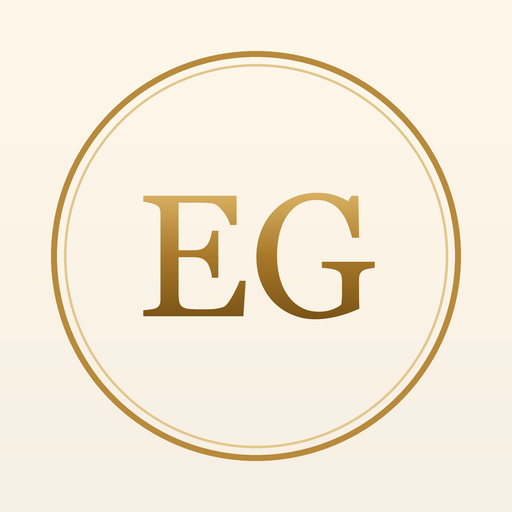
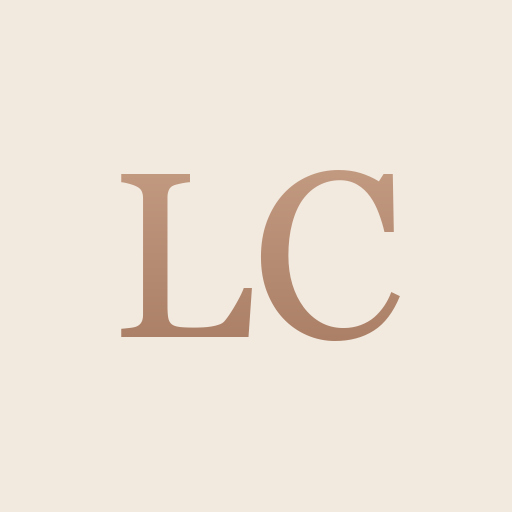
Agenda Lyslie Cruz: visual rose, avisos da secretaria, painel da secretaria em Ajustes, chamadas de retorno na aba Retornos

Changed region(s): [[0.0938, 0.0938, 0.9062, 0.9062], [0.2188, 0.3125, 0.7812, 0.6875]]

diff --git a/index.html b/index.html
@@ -3,11 +3,11 @@
 <head>
 <meta charset="utf-8">
 <meta name="viewport" content="width=device-width,initial-scale=1,viewport-fit=cover">
-<meta name="theme-color" content="#F6EFE3">
+<meta name="theme-color" content="#FBF7F2">
 <meta name="apple-mobile-web-app-capable" content="yes">
 <meta name="mobile-web-app-capable" content="yes">
 <meta name="apple-mobile-web-app-status-bar-style" content="default">
-<meta name="apple-mobile-web-app-title" content="Essence Glam">
+<meta name="apple-mobile-web-app-title" content="Lyslie Cruz">
 <meta name="robots" content="noindex">
 <link rel="icon" href="icon-192.png">
 <link rel="apple-touch-icon" href="apple-touch-icon.png">
@@ -15,42 +15,42 @@
 <script src="https://www.gstatic.com/firebasejs/10.12.2/firebase-app-compat.js"></script>
 <script src="https://www.gstatic.com/firebasejs/10.12.2/firebase-auth-compat.js"></script>
 <script src="https://www.gstatic.com/firebasejs/10.12.2/firebase-firestore-compat.js"></script>
-<title>Essence Glam · Agenda</title>
+<title>Lyslie Cruz · Agenda</title>
 <meta name="color-scheme" content="light only">
 <link rel="preconnect" href="https://fonts.googleapis.com">
-<link rel="stylesheet" href="https://fonts.googleapis.com/css2?family=Cinzel:wght@500;600;700&family=Figtree:wght@400;500;600;700&display=swap">
+<link rel="stylesheet" href="https://fonts.googleapis.com/css2?family=Cormorant+Garamond:wght@500;600;700&family=Figtree:wght@400;500;600;700&display=swap">
 <style>
 /* Layout: app de uma coluna, pensado pro celular; abas fixas embaixo, conteúdo rola acima.
-   Identidade do Stúdio Essence Glam: marfim, dourado em degradê, letras clássicas (Cinzel) como no logo.
+   Identidade Lyslie Cruz (24/11/2026): nude, rosé/bronze em degradê e letras clássicas (Cormorant), como o logo LC.
    Sempre claro, mesmo com o celular no modo noturno (pedido da Lyslie). */
 :root{
   color-scheme:light only;
-  --bg:#F6EFE3; --surface:#FFFCF5; --ink:#3A2915; --muted:#86704F; --line:#E7D9BF;
-  --accent:#8C6220; --accent-ink:#FFFFFF; --accent-soft:#F3E5C8;
-  --gold:linear-gradient(135deg,#C99A48 0%,#A57627 50%,#7E5617 100%);
-  --gold-text:linear-gradient(180deg,#D9B162 0%,#A9792A 55%,#7A5316 100%);
+  --bg:#FBF7F2; --surface:#FFFFFF; --ink:#33261F; --muted:#8E7C6F; --line:#E8DCCE;
+  --accent:#94664D; --accent-ink:#FFFFFF; --accent-soft:#F2E6DC;
+  --gold:linear-gradient(135deg,#D9B49A 0%,#B8876B 50%,#94664D 100%);
+  --gold-text:linear-gradient(180deg,#D9B49A 0%,#B8876B 55%,#8A5C44 100%);
   --ok:#3F7A4E; --ok-soft:#E4F0E2; --warn:#A35E12; --warn-soft:#FBEBD3; --bad:#A83A2E; --bad-soft:#F6E1DC;
   --info:#5A6E8C; --info-soft:#E8ECF2;
-  --f-display:"Cinzel", "Trajan Pro", Georgia, serif;
+  --f-display:"Cormorant Garamond", Georgia, serif;
   --f-body:"Figtree", system-ui, -apple-system, "Segoe UI", sans-serif;
   --f-num:"Figtree", system-ui, -apple-system, sans-serif;
   --r:14px;
 }
 html,body{height:100%}
-body{background:var(--bg) radial-gradient(120% 60% at 50% 0%,#FFF8EA 0%,transparent 70%) no-repeat;color:var(--ink);font-family:var(--f-body);font-size:15px;line-height:1.45}
+body{background:var(--bg) radial-gradient(120% 60% at 50% 0%,#FFFFFF 0%,transparent 70%) no-repeat;color:var(--ink);font-family:var(--f-body);font-size:15px;line-height:1.45}
 *{box-sizing:border-box}
 .wrap{max-width:760px;margin:0 auto;padding-inline:16px;padding-block:12px 96px}
 header.top{display:flex;align-items:center;justify-content:space-between;gap:12px;padding-block:6px 14px;border-bottom:1px solid var(--line);margin-bottom:14px;position:relative}
-header.top::after{content:"";position:absolute;left:0;right:0;bottom:-1px;height:1px;background:linear-gradient(90deg,transparent,#C99A48,transparent)}
+header.top::after{content:"";position:absolute;left:0;right:0;bottom:-1px;height:1px;background:linear-gradient(90deg,transparent,#C9A089,transparent)}
 .logo{display:flex;align-items:center;gap:12px;min-width:0}
-.mono{width:46px;height:46px;border-radius:50%;border:1.5px solid #B88A3C;box-shadow:inset 0 0 0 3px var(--surface),inset 0 0 0 4px #E2C68C;display:flex;align-items:center;justify-content:center;flex:none;background:var(--surface)}
+.mono{width:46px;height:46px;border-radius:50%;border:1.5px solid #B8876B;box-shadow:inset 0 0 0 3px var(--surface),inset 0 0 0 4px #E6CFBF;display:flex;align-items:center;justify-content:center;flex:none;background:var(--surface)}
 .mono b{font:600 19px var(--f-display);letter-spacing:-.04em;background:var(--gold-text);-webkit-background-clip:text;background-clip:text;color:transparent}
-.brand{font-family:var(--f-display);font-weight:600;font-size:22px;line-height:1.05;letter-spacing:.06em;text-wrap:balance;min-width:0}
+.brand{font-family:var(--f-display);font-weight:600;font-size:25px;line-height:1.05;letter-spacing:.06em;text-wrap:balance;min-width:0}
 .brand .pre{display:block;font:500 10.5px var(--f-display);letter-spacing:.42em;color:var(--muted);margin-bottom:3px}
 .brand .nm{background:var(--gold-text);-webkit-background-clip:text;background-clip:text;color:transparent}
 .brand small{display:block;font-family:var(--f-body);font-size:11px;font-weight:500;letter-spacing:.14em;text-transform:uppercase;color:var(--muted);margin-top:4px}
 .today{font-size:12.5px;color:var(--muted);text-align:right}
-nav.tabs{position:fixed;left:0;right:0;bottom:0;background:var(--surface);border-top:1px solid #E2C68C;display:flex;justify-content:center;padding-bottom:env(safe-area-inset-bottom,0px);z-index:20}
+nav.tabs{position:fixed;left:0;right:0;bottom:0;background:var(--surface);border-top:1px solid #E6CFBF;display:flex;justify-content:center;padding-bottom:env(safe-area-inset-bottom,0px);z-index:20}
 nav.tabs .in{display:grid;grid-template-columns:repeat(5,1fr);width:100%;max-width:760px}
 nav.tabs button{background:none;border:0;padding:10px 4px 9px;font:600 12px var(--f-body);color:var(--muted);display:flex;flex-direction:column;align-items:center;gap:3px;cursor:pointer;position:relative}
 nav.tabs button svg{width:22px;height:22px}
@@ -132,13 +132,21 @@ label.f{display:flex;flex-direction:column;gap:5px;font-size:13px;font-weight:60
 .modal .foot{display:flex;gap:8px;justify-content:flex-end;margin-top:16px;flex-wrap:wrap}
 .toast{position:fixed;left:50%;transform:translateX(-50%);bottom:calc(84px + env(safe-area-inset-bottom,0px));background:var(--ink);color:var(--bg);padding:10px 16px;border-radius:10px;font-weight:600;z-index:60;max-width:90%;text-align:center}
 .note{font-size:13px;color:var(--muted)}
+.avbox{background:var(--accent-soft);border:1px solid #E6CFBF;border-radius:var(--r);padding:12px 14px;margin-bottom:12px;display:grid;gap:8px}
+.avit{display:flex;gap:8px;align-items:center;background:var(--surface);border-radius:10px;padding:9px 10px;font-size:13.5px}
+.avit small{display:block;color:var(--muted);font-size:12px}
+.chk{flex-wrap:nowrap;align-items:flex-start}
+.chk input{margin-top:3px;flex:none}
+.secst{display:flex;align-items:center;gap:8px;font-weight:600}
+.secst i{width:10px;height:10px;border-radius:50%;display:inline-block}
+.envit{border-top:1px solid var(--line);padding:8px 0;font-size:13px}
 .banner{background:var(--warn-soft);color:var(--warn);border-radius:10px;padding:10px 12px;font-size:13.5px;margin-bottom:12px}
 .ph{font:500 12px var(--f-num);color:var(--muted)}
 .svc{display:grid;grid-template-columns:1fr auto;gap:4px 10px;padding:10px 0;border-bottom:1px solid var(--line)}
 .svc:last-child{border:0}
 .wa-num{font:500 12px var(--f-num);color:var(--muted);user-select:all}
 .reserva{position:fixed;left:0;right:0;bottom:calc(64px + env(safe-area-inset-bottom,0px));z-index:30;display:flex;justify-content:center;padding-inline:12px;pointer-events:none}
-.reserva .box{pointer-events:auto;width:100%;max-width:736px;max-height:58vh;overflow:auto;background:var(--surface);border:2px solid #B88A3C;border-radius:16px;box-shadow:0 -8px 30px rgba(0,0,0,.25);padding:14px}
+.reserva .box{pointer-events:auto;width:100%;max-width:736px;max-height:58vh;overflow:auto;background:var(--surface);border:2px solid #B8876B;border-radius:16px;box-shadow:0 -8px 30px rgba(0,0,0,.25);padding:14px}
 .reserva h3{font-family:var(--f-display);font-weight:600;font-size:17px;letter-spacing:.03em;color:var(--accent);margin:0 0 2px}
 .reserva .it{border-top:1px solid var(--line);padding-top:10px;margin-top:10px;display:grid;gap:6px}
 .reserva .nums{display:grid;grid-template-columns:repeat(3,1fr);gap:6px}
@@ -151,14 +159,14 @@ body.tem-reserva .wrap{padding-bottom:360px}
 /* fora do Claude não vem essa regra pronta: elemento com hidden some de verdade (login, toast, formulários) */
 [hidden]{display:none!important}
 /* tela de login (fora do Claude, cada uma entra com o próprio e-mail e senha) */
-.login{position:fixed;inset:0;z-index:80;background:var(--bg) radial-gradient(120% 70% at 50% 0%,#FFF8EA 0%,transparent 70%) no-repeat;display:flex;align-items:center;justify-content:center;padding:24px 16px;overflow:auto}
+.login{position:fixed;inset:0;z-index:80;background:var(--bg) radial-gradient(120% 70% at 50% 0%,#FFFFFF 0%,transparent 70%) no-repeat;display:flex;align-items:center;justify-content:center;padding:24px 16px;overflow:auto}
 .lgbox{width:100%;max-width:360px;display:grid;gap:12px;text-align:center}
 .lgmono{width:72px;height:72px;margin:0 auto 4px}
 .lgmono b{font-size:30px}
 .lgpre{font:500 12px var(--f-display);letter-spacing:.5em;color:var(--muted)}
 .lgnome{font:600 30px var(--f-display);letter-spacing:.06em;margin:0;background:var(--gold-text);-webkit-background-clip:text;background-clip:text;color:transparent}
 .lgcid{font:500 11px var(--f-display);letter-spacing:.4em;color:var(--muted);margin-bottom:10px}
-.lgcid::before,.lgcid::after{content:"";display:inline-block;width:28px;height:1px;background:#C99A48;vertical-align:middle;margin:0 10px}
+.lgcid::before,.lgcid::after{content:"";display:inline-block;width:28px;height:1px;background:#C9A089;vertical-align:middle;margin:0 10px}
 .lgbox label.f{text-align:left}
 body.sem-login nav.tabs,body.sem-login #reservaRoot{display:none}
 
@@ -174,7 +182,7 @@ body.sem-login nav.tabs,body.sem-login #reservaRoot{display:none}
 .cal .cell.fora .ev{opacity:.45}
 .cal .cell.hoje .n{background:var(--gold);color:#fff}
 .cal .cell.sel{background:var(--accent-soft)}
-.cal .cell.sel:not(.hoje) .n{border:1.5px solid #B88A3C}
+.cal .cell.sel:not(.hoje) .n{border:1.5px solid #B8876B}
 .cal .ev{display:block;font:600 9.5px/1.25 var(--f-body);white-space:nowrap;overflow:hidden;text-overflow:clip;border-radius:3px;padding:1px 2px 1px 3px;border-left:2px solid var(--c,var(--accent));background:color-mix(in srgb,var(--c,#B0843A) 15%,transparent);color:var(--ink)}
 .cal .ev.ok{opacity:.55}
 .cal .ev.conf{font-weight:700}
@@ -202,7 +210,7 @@ body.sem-login nav.tabs,body.sem-login #reservaRoot{display:none}
 
 <div class="wrap">
   <header class="top">
-    <div class="logo"><span class="mono" aria-hidden="true"><b id="mono">EG</b></span><div class="brand" id="brand">Estúdio<small>Sobrancelha · Maquiagem · Cílios</small></div></div>
+    <div class="logo"><span class="mono" aria-hidden="true"><b id="mono">LC</b></span><div class="brand" id="brand">Estúdio<small>Sobrancelha · Maquiagem · Cílios</small></div></div>
     <div class="today" id="todayLbl"></div>
   </header>
   <div id="banner"></div>
@@ -220,9 +228,9 @@ body.sem-login nav.tabs,body.sem-login #reservaRoot{display:none}
 <div id="modalRoot"></div>
 <div id="login" class="login" hidden>
   <form id="lgForm" class="lgbox" autocomplete="on">
-    <span class="mono lgmono" aria-hidden="true"><b>EG</b></span>
-    <div class="lgpre">STÚDIO</div>
-    <h1 class="lgnome">ESSENCE GLAM</h1>
+    <span class="mono lgmono" aria-hidden="true"><b>LC</b></span>
+    <div class="lgpre">AGENDA</div>
+    <h1 class="lgnome">LYSLIE CRUZ</h1>
     <div class="lgcid">ARCOS-MG</div>
     <label class="f">E-mail<input id="lgEmail" type="email" autocomplete="username" inputmode="email" required></label>
     <label class="f">Senha<input id="lgSenha" type="password" autocomplete="current-password" required></label>
@@ -277,7 +285,7 @@ const S = {
   prof: "todas",
   mes: today().slice(0,7),
   busca: "",
-  cfg: null, clientes: [], ags: [], caixa: [], acomp: [], reservas: [],
+  cfg: null, clientes: [], ags: [], caixa: [], acomp: [], reservas: [], avisos: [], sec: {}, secRet: [], envios: null,
   pronto: {cfg:false, clientes:false, ags:false, caixa:false, acomp:false},
   db: null, canWrite: true
 };
@@ -500,6 +508,7 @@ function viewAgenda(v){
   const doDia = S.ags.filter(a => a.data === S.dia && doProf(a)).sort((a,b)=> a.hora.localeCompare(b.hora));
   const [y,mm] = S.dia.slice(0,7).split("-").map(Number);
   let html = '<div class="datebar"><button class="btn-sm" data-cm="-1" aria-label="Mês anterior">‹</button><div class="label">'+MES[mm-1]+' '+y+'</div><button class="btn-sm" data-cm="1" aria-label="Próximo mês">›</button></div>';
+  html += painelAvisos();
   html += painelConfirmar();
   html += '<div class="busca-ag"><input id="buscaAg" type="search" autocomplete="off" placeholder="🔍 Buscar cliente por nome ou número"><div id="buscaAgRes" class="achou" style="margin-top:6px"></div></div>';
   html += profChips();
@@ -519,6 +528,7 @@ function viewAgenda(v){
     if (total) html += '<p class="note" style="margin-top:10px">Recebido neste dia: <span class="money">'+brl(total)+'</span></p>';
   }
   v.innerHTML = html;
+  bindAvisos(v);
   v.querySelectorAll("[data-cm]").forEach(b => b.onclick = () => { const d = new Date(y, mm-1+Number(b.dataset.cm), 1); const alvo = d.getFullYear()+"-"+pad(d.getMonth()+1); S.dia = today().slice(0,7) === alvo ? today() : alvo+"-01"; render(); });
   v.querySelectorAll("[data-dia]").forEach(b => b.onclick = () => { const mudouMes = b.dataset.dia.slice(0,7) !== S.dia.slice(0,7); S.dia = b.dataset.dia; render(); if (!mudouMes) { const h = $(".dayhead"); if (h && h.getBoundingClientRect().top > innerHeight*0.6) h.scrollIntoView({behavior:"smooth", block:"start"}); } });
   bindProfChips(v);
@@ -817,6 +827,21 @@ function formConcluir(a){
     };
   });
 }
+/* ---------- avisos da secretária ---------- */
+function textoAviso(a){ const n = String(a.nome||"Cliente").split(" ")[0]; const sv = nomeMsg(a.servico||""); const q = (a.data ? fmtCurto(a.data) : "")+(a.hora ? " às "+a.hora : "");
+  if (a.tipo === "agendou") return "🔔 "+n+" agendou "+sv+" pelo site, "+q;
+  if (a.tipo === "cancelou") return "↩ "+n+" desmarcou "+sv+" ("+q+") pelo WhatsApp. O horário foi liberado";
+  if (a.tipo === "conflito") return "⚠ "+n+" tentou agendar "+sv+" "+q+", mas o horário já estava ocupado";
+  return "🔔 "+n; }
+function painelAvisos(){ const ls = S.avisos || []; if (!ls.length) return "";
+  return '<div class="avbox"><div class="row"><b class="grow">Avisos da secretária</b>'+(ls.length>1?'<button class="btn-sm btn-ghost" data-avtodos>Limpar todos</button>':'')+'</div>'+
+    ls.slice(0,8).map(a => '<div class="avit"><div class="grow">'+esc(textoAviso(a))+(a.tipo==="conflito"?'<small>A secretária mandou o link pra ela escolher outro horário.</small>':'')+'</div>'+
+      (a.agId && a.tipo !== "cancelou" ? '<button class="btn-sm" data-avver="'+esc(a.id)+'">Ver</button>' : '')+'<button class="btn-sm btn-ghost" data-avok="'+esc(a.id)+'" aria-label="Apagar aviso">Ok</button></div>').join("")+'</div>'; }
+function bindAvisos(v){
+  v.querySelectorAll("[data-avok]").forEach(b => b.onclick = () => run(()=>col("avisos").doc(b.dataset.avok).delete()));
+  v.querySelectorAll("[data-avver]").forEach(b => b.onclick = () => { const a = S.avisos.find(x => x.id === b.dataset.avver); if (!a) return; S.dia = a.data; S.mes = a.data.slice(0,7); render(); run(()=>col("avisos").doc(a.id).delete()); });
+  const t = v.querySelector("[data-avtodos]"); if (t) t.onclick = () => run(async () => { const b = S.db.batch(); S.avisos.forEach(a => b.delete(col("avisos").doc(a.id))); await b.commit(); }, "Avisos limpos");
+}
 /* ---------- depois de concluir: agendar o próximo agora ou a secretária chama a cliente em 15 dias (pedido da Lyslie, 24/11/2026) ---------- */
 const DIAS_CHAMADA = 15;
 function proximoPasso(a){
@@ -937,6 +962,8 @@ function viewRetornos(v){
   const itemProx = a => { const c = cliById(a.clienteId) || {}; const p = profById(a.profId)||{}; const ctx = ctxProx(a);
     const tpl = a.enviadas ? cfg().msgs.proxima2 : cfg().msgs.proxima;
     return '<div class="due'+(a.enviadas?" late":"")+'"><div class="row"><b class="grow">'+esc(c.nome||"Cliente removida")+'</b><span class="tag">próxima entre '+esc(ctx.de)+' e '+esc(ctx.ate)+'</span></div><div class="tag">'+(a.enviadas ? 'Chamada '+(a.enviadas>1?a.enviadas+" vezes":"em "+fmtCurto(a.enviadoEm))+' e ainda sem horário marcado' : 'Ainda não foi chamada pra marcar a próxima')+' · '+esc(a.servicoNome||"")+(p.nome?" · "+esc(p.nome):"")+'</div><div class="acts row">'+waBtn(c.telefone, fill(tpl, ctx), a.enviadas ? "Chamar de novo" : "Chamar pra próxima", "btn-sm", 'data-px="'+esc(a.id)+'" data-pxn="'+(a.enviadas||0)+'"')+'<button class="btn-sm" data-marcar="'+esc(a.clienteId)+'">Marcar horário</button><button class="btn-sm btn-ghost" data-ok="'+esc(a.id)+'">Não vai voltar</button></div></div>'; };
+  const chs = (S.secRet||[]).slice().sort((a,b)=>String(a.enviarEm).localeCompare(String(b.enviarEm)));
+  if (chs.length) html += '<h2 class="sec">A secretária vai chamar</h2><div class="list">'+chs.map(r => { const c = cliById(r.clienteId) || {}; return '<div class="due"><div class="row"><b class="grow">'+esc(c.nome||"Cliente")+'</b><span class="tag">dia '+esc(fmtCurto(r.enviarEm))+'</span></div><div class="tag">Retorno de '+esc(nomeMsg(r.servicoNome||""))+' · atendida em '+esc(fmtCurto(r.dataAtendimento))+'</div><div class="row"><button class="btn-sm btn-ghost" data-rcan="'+esc(r.id)+'">Não chamar</button></div></div>'; }).join("")+'</div>';
   html += '<h2 class="sec">Para hoje</h2>' + (vencidos.length ? '<div class="list">'+vencidos.map(item).join("")+'</div>' : '<div class="empty"><b>Tudo em dia</b>Quando um atendimento é concluído, o lembrete dos cuidados e da manutenção aparece aqui.</div>');
   if (proximos.length) html += '<h2 class="sec">Próximos 14 dias</h2><div class="list">'+proximos.map(item).join("")+'</div>';
   if (sumidas.length) html += '<h2 class="sec">Sumidas há mais de '+nSum+' dias</h2><div class="list">'+sumidas.map(x => '<div class="due"><div class="row"><b class="grow">'+esc(x.c.nome)+'</b><span class="tag">último: '+fmtCurto(x.ult.data)+'</span></div><div class="tag">'+esc(x.ult.servicoNome||"")+'</div><div class="row">'+waBtn(x.c.telefone, "Oi, "+x.c.nome.split(" ")[0]+"! Saudade de você por aqui. Quer marcar um horário?", "Chamar")+'<button class="btn-sm" data-marcar="'+esc(x.c.id)+'">Marcar horário</button></div></div>').join("")+'</div>';
@@ -944,6 +971,7 @@ function viewRetornos(v){
   bindProfChips(v);
   v.querySelectorAll("[data-ok]").forEach(b => b.onclick = () => run(()=>col("acompanhamentos").doc(b.dataset.ok).update({feito:true, feitoEm: today()}), "Marcado como feito"));
   v.querySelectorAll("[data-px]").forEach(b => b.addEventListener("click", () => marcarEnvioProx(b.dataset.px, Number(b.dataset.pxn))));
+  v.querySelectorAll("[data-rcan]").forEach(b => b.onclick = () => run(()=>col("secretaria_retornos").doc(b.dataset.rcan).update({status:"cancelado", canceladoEm: new Date().toISOString()}), "Ok, a secretária não vai chamar."));
   v.querySelectorAll("[data-marcar]").forEach(b => b.onclick = () => { S.tab="agenda"; render(); formAg(null, b.dataset.marcar); });
 }
 
@@ -995,12 +1023,51 @@ function formLanc(tipo, l){
 
 /* ---------- AJUSTES ---------- */
 const MSGS = [["confirmacao","Confirmar horário (24h a 12h antes)"],["lembrete","Lembrete pra quem já confirmou"],["cuidados","Cuidados pós-atendimento"],["proxima","Chamar pra próxima (logo ao concluir)"],["proxima2","Chamar pra próxima de novo (quem não respondeu)"],["retorno","Chamar pra manutenção"]];
+const SEC_TIPOS = [["confirmacao","Confirmação quando agenda"],["lembrete","Lembrete na véspera (com sim/não e resposta automática)"],["retorno","Chamada de retorno (botão ao concluir)"],["conflito","Aviso quando o horário do site já estava ocupado"],["cuidados","Cuidados no dia seguinte ao atendimento"]];
+const SEC_TEXTOS = [["confirmacao","Confirmação do agendamento"],["lembrete","Lembrete da véspera"],["sim","Resposta quando ela diz \"sim\""],["nao","Resposta quando ela diz \"não\""],["retorno","Chamada de retorno"],["cuidados","Cuidados no dia seguinte"],["conflito","Horário já ocupado"]];
+const SEC_PADRAO = {
+  confirmacao:'Oii {nome}, seu horário de {servico} está marcado para {quando} às {hora}. 💗 Te espero na {endereco}. Qualquer mudança, é só me avisar por aqui.',
+  lembrete:'Oii {nome}, posso confirmar seu horário de {servico} {quando} às {hora}? É só me responder "sim" ou "não". 💗',
+  sim:'Perfeito, {nome}! Seu horário está confirmado. Te espero {quando} às {hora}, na {endereco}. 💗',
+  nao:'Tudo bem, {nome}! Vou liberar esse horário. Se quiser marcar outro dia, é só escolher aqui: {link} 💗',
+  retorno:'Oii {nome}, seu último {servico} foi dia {data_atendimento} e, {manter}, o ideal é que você retorne {janela}. Vou te enviar o link pra você ver quais horários tenho disponíveis pra te atender: {link} 💗',
+  cuidados:'Oi, {nome}! Foi um prazer te atender. 💗 Seguem os cuidados com seu {servico}: {cuidados}. Qualquer dúvida, é só me chamar.',
+  conflito:'Oii {nome}, que pena! O horário de {hora} do {quando} acabou de ser reservado por outra cliente. 😕 Escolhe outro horário aqui, por favor: {link} 💗'};
+function secStatus(){ const u = S.sec?.ultimaRodada; if (!u) return '<span class="secst"><i style="background:var(--muted)"></i>Ainda sem notícia da secretária</span>';
+  const min = Math.round((Date.now() - new Date(u).getTime())/60000); const hh = new Date(u).toLocaleTimeString("pt-BR",{hour:"2-digit",minute:"2-digit"});
+  return min <= 12 ? '<span class="secst" style="color:var(--ok)"><i style="background:var(--ok)"></i>Funcionando · conferiu a agenda às '+hh+'</span>' : '<span class="secst" style="color:var(--bad)"><i style="background:var(--bad)"></i>Parada desde '+esc(fmtCurto(new Date(u).toISOString().slice(0,10)))+' às '+hh+' · avise o Claude</span>'; }
+function blocoSecretaria(){ const x = S.sec || {}; const tp = x.tipos || {}; const tx = x.textos || {}; const teste = Array.isArray(x.teste) ? x.teste : [];
+  return '<h2 class="sec">Secretária no WhatsApp</h2><div class="card form" id="secCard">'+secStatus()+
+    '<label class="row chk"><input type="checkbox" id="sAtivo" style="width:auto"'+(x.ativo===false?'':' checked')+'> Secretária ligada</label>'+
+    '<label class="row chk"><input type="checkbox" id="sTeste" style="width:auto"'+(teste.length?' checked':'')+'> Modo teste: só estes números recebem</label>'+
+    '<label class="f">Números do teste (os 8 últimos dígitos, separados por vírgula)<input id="sTesteN" value="'+esc(teste.join(", "))+'"></label>'+
+    '<p class="note" style="margin:0">Desligando o modo teste, todas as clientes passam a receber.</p>'+
+    '<div class="f"><span>O que ela manda</span>'+SEC_TIPOS.map(([k,l])=>'<label class="row chk"><input type="checkbox" data-stipo="'+k+'" style="width:auto"'+((k==="cuidados" ? tp[k]===true : tp[k]!==false)?' checked':'')+'> '+l+'</label>').join("")+'</div>'+
+    '<div class="two"><label class="f">Manda mensagem a partir de<input type="time" id="sDe" value="'+esc((x.janela||[])[0]||"07:00")+'"></label><label class="f">até<input type="time" id="sAte" value="'+esc((x.janela||[])[1]||"23:00")+'"></label></div>'+
+    '<label class="f">Endereço (vai em {endereco})<input id="sEnd" value="'+esc(x.endereco||"")+'"></label>'+
+    '<label class="f">Link do catálogo (vai em {link})<input id="sLink" value="'+esc(x.linkSite||"")+'"></label>'+
+    '<p class="note">Nos textos, use <span class="ph">{nome}</span> <span class="ph">{servico}</span> <span class="ph">{quando}</span> (hoje, amanhã ou o dia) <span class="ph">{hora}</span> <span class="ph">{endereco}</span> <span class="ph">{link}</span>. Na chamada de retorno também <span class="ph">{data_atendimento}</span> <span class="ph">{janela}</span> <span class="ph">{manter}</span>; nos cuidados, <span class="ph">{cuidados}</span> (os cuidados cadastrados no serviço).</p>'+
+    SEC_TEXTOS.map(([k,l])=>'<label class="f">'+l+'<textarea data-stxt="'+k+'" style="min-height:96px">'+esc(tx[k]||SEC_PADRAO[k])+'</textarea></label>').join("")+
+    '<div class="row"><button class="btn-primary" id="sSalva">Salvar secretária</button><button id="sHist">Ver últimas mensagens</button></div><div id="sHistBox"></div></div>'; }
+function bindSecretaria(v){ const q = s => v.querySelector(s); if (!q("#secCard")) return;
+  q("#sSalva").onclick = () => { const tipos = {}; v.querySelectorAll("[data-stipo]").forEach(c => tipos[c.dataset.stipo] = c.checked);
+    const textos = {}; v.querySelectorAll("[data-stxt]").forEach(t => { const val = t.value.trim(); if (val && val !== SEC_PADRAO[t.dataset.stxt]) textos[t.dataset.stxt] = val; });
+    const teste = q("#sTeste").checked ? q("#sTesteN").value.split(",").map(x => x.replace(/\D/g,"").slice(-8)).filter(Boolean) : [];
+    if (q("#sTeste").checked && !teste.length){ toast("Coloque pelo menos um número no modo teste, ou desmarque."); return; }
+    run(()=>S.db.doc("config/secretaria").set({ativo: q("#sAtivo").checked, teste, tipos, textos, janela:[q("#sDe").value||"07:00", q("#sAte").value||"23:00"], endereco: q("#sEnd").value.trim(), linkSite: q("#sLink").value.trim()}, {merge:true}), "Secretária salva"); };
+  q("#sHist").onclick = async () => { const box = q("#sHistBox"); box.innerHTML = '<p class="note">Carregando…</p>';
+    try { const r = await S.db.collection("secretaria_envios").orderBy("enviadoEm","desc").limit(20).get();
+      const NOME = {confirmacao:"Confirmação", lembrete:"Lembrete", retorno:"Retorno", cuidados:"Cuidados", conflito:"Horário ocupado"};
+      box.innerHTML = r.empty ? '<p class="note">Nenhuma mensagem ainda.</p>' : r.docs.map(d => { const e = d.data(); const c = cliById(e.clienteId) || {}; const resp = e.resposta && e.resposta !== "n/a" ? (e.resposta==="sim"?"respondeu sim ✅":e.resposta==="nao"?"respondeu não ↩":e.resposta==="sem-resposta"?"não respondeu":"respondeu: "+(e.respostaTexto||"")) : "";
+        return '<div class="envit"><b>'+esc(NOME[e.tipo]||e.tipo)+'</b> · '+esc(c.nome||"Cliente")+' · '+esc(new Date(e.enviadoEm).toLocaleString("pt-BR",{day:"2-digit",month:"2-digit",hour:"2-digit",minute:"2-digit"}))+(resp?'<br><span class="tag">'+esc(resp)+'</span>':'')+'</div>'; }).join("");
+    } catch(e){ box.innerHTML = '<p class="note">Não deu pra carregar agora.</p>'; } };
+}
 function viewAjustes(v){
   const c = cfg();
-  let html = '<h2 class="sec">Estúdio</h2><div class="card form"><label class="f">Nome do estúdio<input id="aNome" value="'+esc(c.estudio)+'"></label><button class="btn-primary" id="aSalvaNome" style="justify-self:start">Salvar nome</button></div>';
+  let html = blocoSecretaria() + '<h2 class="sec">Estúdio</h2><div class="card form"><label class="f">Nome do estúdio<input id="aNome" value="'+esc(c.estudio)+'"></label><button class="btn-primary" id="aSalvaNome" style="justify-self:start">Salvar nome</button></div>';
   html += '<h2 class="sec">Profissionais</h2><div class="card">'+(c.profissionais.length? c.profissionais.map(p=>'<div class="line"><span class="sw" style="background:'+esc(p.cor)+'"></span><div class="grow">'+esc(p.nome)+'<small>'+esc(p.area||"")+'</small></div><button class="btn-sm" data-pe="'+esc(p.id)+'">Editar</button></div>').join("") : '<p class="note">Cadastre quem atende no estúdio.</p>')+'<button style="margin-top:10px" id="aNovaP">+ Profissional</button></div>';
   html += '<h2 class="sec">Serviços e preços</h2><div class="card">'+(c.servicos.length? c.servicos.map(s=>'<div class="svc"><div style="min-width:0"><b>'+esc(s.nome)+'</b><div class="tag">'+(s.divisao?.length ? 'Combo · '+s.divisao.map(d=>esc(profById(d.profId)?.nome||"")+' '+brl(d.valor)).join(" + ") : esc(profById(s.profId)?.nome||"Qualquer profissional"))+(s.duracao?" · "+esc(s.duracao)+" min":"")+(s.retornoDias?" · manutenção em "+esc(s.retornoDias)+" dias":"")+'</div></div><div style="text-align:right"><span class="money">'+(s.preco!=null? brl(s.preco) : '<span style="color:var(--warn)">sem preço</span>')+'</span><br><button class="btn-sm btn-ghost" data-se="'+esc(s.id)+'">Editar</button></div></div>').join("") : '<p class="note">Cadastre os serviços com preço, duração e prazo de manutenção.</p>')+'<button style="margin-top:10px" id="aNovoS">+ Serviço</button></div>';
-  html += '<h2 class="sec">Mensagens do WhatsApp</h2><div class="card form"><p class="note">Use <span class="ph">{nome}</span> <span class="ph">{servico}</span> <span class="ph">{data}</span> <span class="ph">{hora}</span> <span class="ph">{prof}</span> <span class="ph">{estudio}</span> <span class="ph">{cuidados}</span>. <span class="ph">{quando}</span> (hoje, amanhã ou o dia). Na “próxima”, também <span class="ph">{de}</span> e <span class="ph">{ate}</span> (as datas da janela) e <span class="ph">{janela}</span> (a frase da janela; nos cílios vira “já deixa sua manutenção garantida:”). <span class="ph">{precos}</span> põe as datas e os valores da manutenção dos cílios daquele tipo (até o dia X paga o valor de 20 dias; do dia Y ao dia Z, o de 30), contados do dia do atendimento. Em serviço sem manutenção, a linha some. O app troca pelos dados da cliente.</p>'+
+  html += '<h2 class="sec">Mensagens dos botões de WhatsApp (você manda)</h2><div class="card form"><p class="note">Use <span class="ph">{nome}</span> <span class="ph">{servico}</span> <span class="ph">{data}</span> <span class="ph">{hora}</span> <span class="ph">{prof}</span> <span class="ph">{estudio}</span> <span class="ph">{cuidados}</span>. <span class="ph">{quando}</span> (hoje, amanhã ou o dia). Na “próxima”, também <span class="ph">{de}</span> e <span class="ph">{ate}</span> (as datas da janela) e <span class="ph">{janela}</span> (a frase da janela; nos cílios vira “já deixa sua manutenção garantida:”). <span class="ph">{precos}</span> põe as datas e os valores da manutenção dos cílios daquele tipo (até o dia X paga o valor de 20 dias; do dia Y ao dia Z, o de 30), contados do dia do atendimento. Em serviço sem manutenção, a linha some. O app troca pelos dados da cliente.</p>'+
     MSGS.map(([k,l])=>'<label class="f">'+l+'<textarea id="msg_'+k+'">'+esc(c.msgs?.[k]||DEFAULT_CFG.msgs[k])+'</textarea></label>').join("")+
     '<div class="two"><label class="f">Próxima visita: a partir de quantos dias?<input id="aPxDe" inputmode="numeric" value="'+esc(janDe())+'"></label><label class="f">Até quantos dias?<input id="aPxAte" inputmode="numeric" value="'+esc(janAte())+'"></label></div>'+
     '<label class="f">Serviços que NÃO chamam pra próxima (separe com |)<input id="aSemPx" value="'+esc(c.semProxima||"maquiagem|penteado|babyliss")+'"></label>'+
@@ -1009,6 +1076,7 @@ function viewAjustes(v){
   html += '<h2 class="sec">Caixa e retornos</h2><div class="card form"><p class="note">Um item por linha.</p><label class="f">Formas de pagamento<textarea id="aFormas">'+esc(formas().join("\n"))+'</textarea></label><div class="two"><label class="f">Categorias de entrada<textarea id="aCatE">'+esc(catsEntrada().join("\n"))+'</textarea></label><label class="f">Categorias de saída<textarea id="aCatS">'+esc(catsSaida().join("\n"))+'</textarea></label></div><label class="f">Considerar cliente sumida depois de quantos dias sem vir?<input id="aSum" inputmode="numeric" value="'+esc(c.diasSumida||45)+'"></label><div class="two"><label class="f">Reserva do studio (% do faturamento do dia)<input id="aResPct" inputmode="decimal" value="'+esc(String(resPct()).replace(".",","))+'"></label><label class="f">Horário do fechamento do dia<input id="aResHora" type="time" value="'+esc(resHora())+'"></label></div><p class="note" style="margin:6px 0 0">Taxa de cada forma de pagamento. O caixa lança o valor já descontado.</p>'+formas().map((f,i)=>{ const t = taxaDe(f); return '<div class="two" style="align-items:end"><label class="f">'+esc(f)+' (taxa %)<input data-tx="'+i+'" inputmode="decimal" value="'+esc(String(t.pct||0).replace(".",","))+'"></label><label class="row" style="padding-bottom:10px"><input type="checkbox" data-tdu="'+i+'" style="width:auto"'+(t.proxDiaUtil?" checked":"")+'> Cai no próximo dia útil</label></div>'; }).join("")+'<button class="btn-primary" id="aSalvaCx" style="justify-self:start">Salvar</button></div>';
   html += '<h2 class="sec">Conta e cópia dos dados</h2><div class="card form"><p class="note" style="margin:0">Entrou como <b>'+esc(S.user?.email||"")+'</b>.</p><div class="row"><button id="aCopia">Baixar cópia dos dados</button><button class="btn-danger" id="aSair">Sair da conta</button></div><p class="note" style="margin:0">Guarde uma cópia de vez em quando, no celular ou no Google Drive. O plano gratuito não faz backup sozinho.</p></div>';
   v.innerHTML = html;
+  bindSecretaria(v);
   v.querySelector("#aCopia").onclick = baixarCopia;
   v.querySelector("#aSair").onclick = () => confirmar("Sair da conta neste aparelho?", "Sair", async () => { await window.__sair(); });
   const linhas = id => v.querySelector(id).value.split("\n").map(x=>x.trim()).filter(Boolean);
@@ -1140,6 +1208,12 @@ render();
     unsub.push(db.collection("agendamentos").orderBy("data","desc").limit(1000).onSnapshot(q => { S.ags = q.docs.map(d => ({id:d.id, ...d.data()})); render(); }, fail));
     unsub.push(db.collection("caixa").orderBy("data","desc").limit(1000).onSnapshot(q => { S.caixa = q.docs.map(d => ({id:d.id, ...d.data(), valor: Number(d.data().valor)||0})); S.pronto.caixa = true; render(); }, fail));
     unsub.push(db.collection("acompanhamentos").where("feito","==",false).onSnapshot(q => { S.acomp = q.docs.map(d => ({id:d.id, ...d.data()})); render(); }, fail));
+    /* secretária: avisos (agendou pelo site, desmarcou, horário ocupado), ajustes e chamadas de retorno */
+    let avIni = true;
+    unsub.push(db.collection("avisos").orderBy("criadoEm","desc").limit(30).onSnapshot(q => { const ls = q.docs.map(d => ({id:d.id, ...d.data()}));
+      if (!avIni){ const novos = ls.filter(a => !S.avisos.some(b => b.id === a.id)); if (novos.length) toast(textoAviso(novos[0])); } avIni = false; S.avisos = ls; render(); }, fail));
+    unsub.push(db.doc("config/secretaria").onSnapshot(x => { S.sec = x.exists ? x.data() : {}; if (S.tab !== "ajustes") render(); }, fail));
+    unsub.push(db.collection("secretaria_retornos").where("status","==","agendado").onSnapshot(q => { S.secRet = q.docs.map(d => ({id:d.id, ...d.data()})); render(); }, fail));
     unsub.push(db.collection("reservas").orderBy("data","desc").limit(1000).onSnapshot(q => { S.reservas = q.docs.map(d => ({id:d.id, ...d.data()})); S.pronto.reservas = true; render(); }, fail));
   });
 })();
